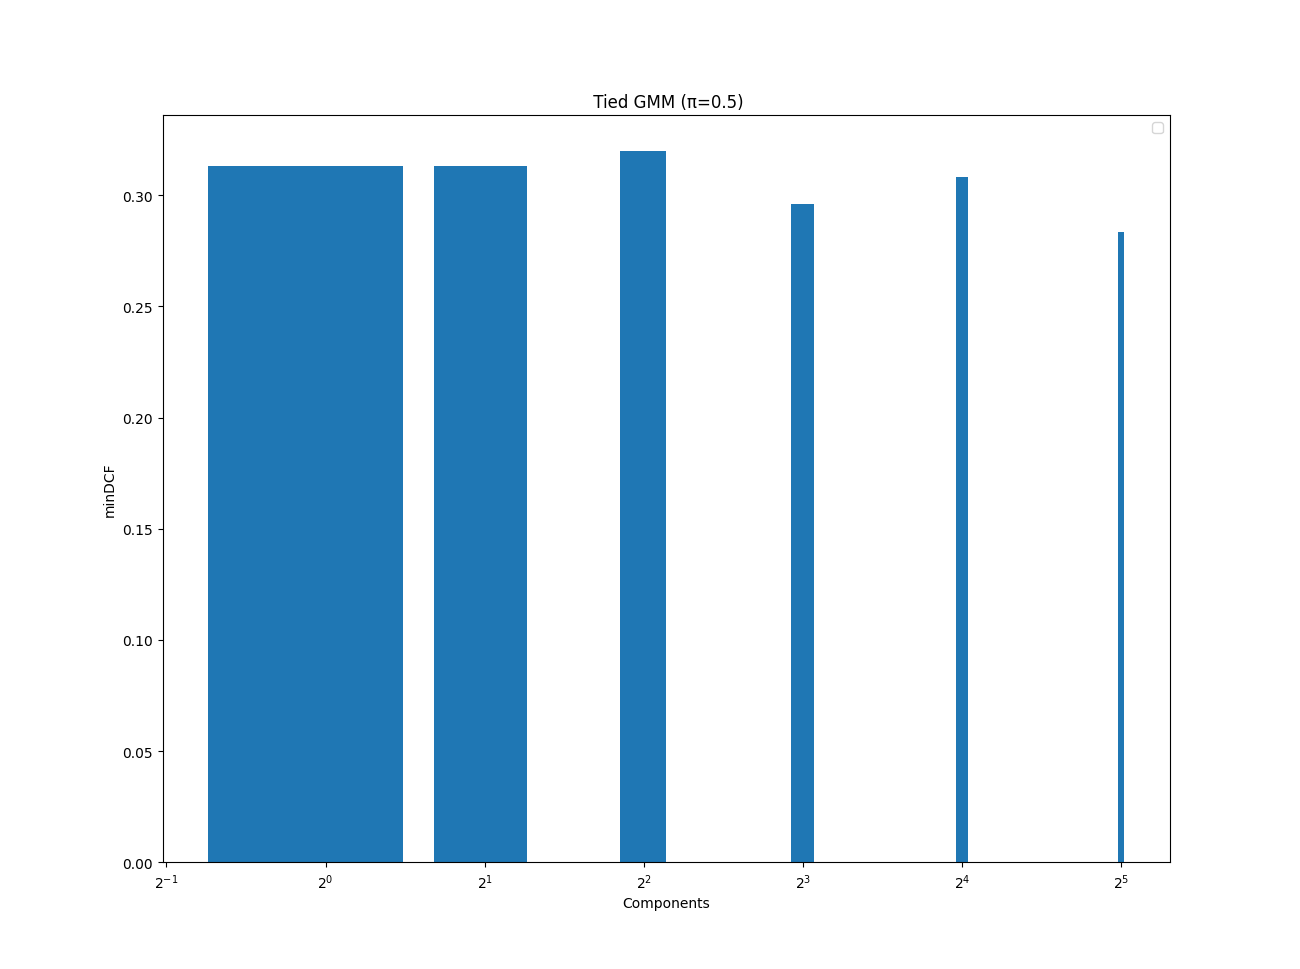
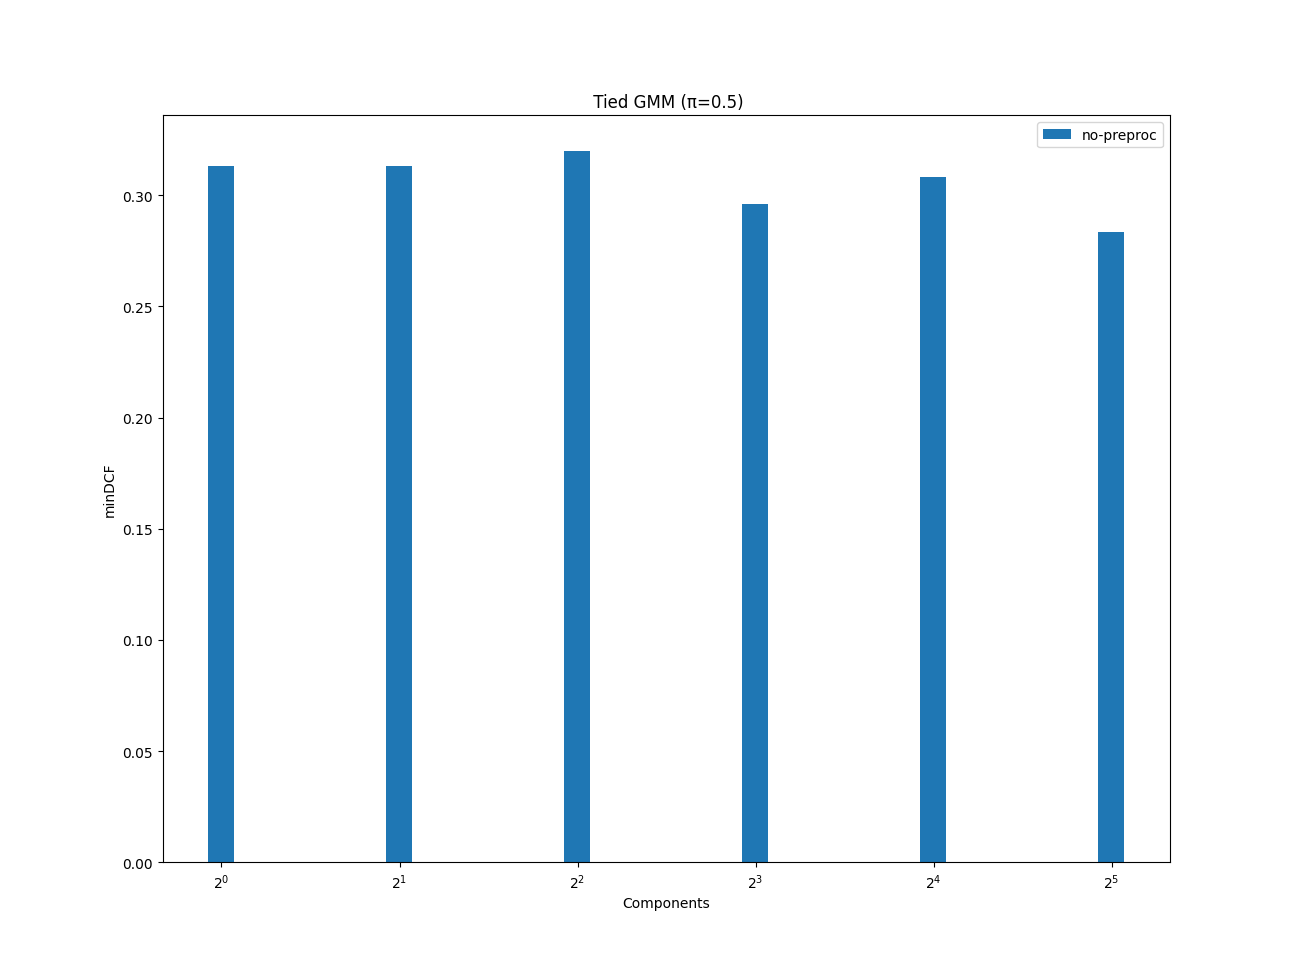
gmm classifier updated

diff --git a/wine_project/scripts/gmm_classifier.py b/wine_project/scripts/gmm_classifier.py
@@ -60,28 +60,28 @@ if __name__ == "__main__":
 
     def gmm_gridsearch():
         # Preprocessing configurations to try
-        # preproc_configurations = [
-        #     PreprocessConf([]),
-        #     PreprocessConf([PreprocStage(Preproc.Gaussianization)]),
-        #     PreprocessConf([
-        #         PreprocStage(Preproc.Centering),
-        #         PreprocStage(Preproc.Whitening_Covariance),
-        #         PreprocStage(Preproc.L2_Normalization)
-        #     ]),
-        #     PreprocessConf([
-        #         PreprocStage(Preproc.Centering),
-        #         PreprocStage(Preproc.Whitening_Within_Covariance),
-        #         PreprocStage(Preproc.L2_Normalization)
-        #     ]),
-        # ]
         preproc_configurations = [
-            PreprocessConf([])
+            PreprocessConf([]),
+            PreprocessConf([PreprocStage(Preproc.Gaussianization)]),
+            PreprocessConf([
+                PreprocStage(Preproc.Centering),
+                PreprocStage(Preproc.Whitening_Covariance),
+                PreprocStage(Preproc.L2_Normalization)
+            ]),
+            PreprocessConf([
+                PreprocStage(Preproc.Centering),
+                PreprocStage(Preproc.Whitening_Within_Covariance),
+                PreprocStage(Preproc.L2_Normalization)
+            ]),
         ]
+        # preproc_configurations = [
+        #     PreprocessConf([])
+        # ]
 
         # Grid hyperparameters
         diags = [False, True]
         tieds = [False, True]
-        max_comps = 32
+        max_comps = 256
         logcomps = int(np.log2(max_comps))
         comps = np.logspace(0, logcomps, logcomps+1, base=2)
 
@@ -114,6 +114,7 @@ if __name__ == "__main__":
         print("Grid search on GMM without ended in %d seconds" % (tot_time_end - tot_time_start))
         np.save("temp.npy", minDCFs)
         # Plot
+        #minDCFs = np.load("temp.npy")
         for app_i, (pi1, Cfn, Cfp) in enumerate(applications):
             for d_i, diag in enumerate(diags):
                 for t_i, tied in enumerate(tieds):
@@ -124,10 +125,13 @@ if __name__ == "__main__":
                     plt.title(title)
                     plt.xlabel("Components")
                     plt.ylabel("minDCF")
-                    plt.xscale('log', basex=2)
+                    plt.xscale('log', base=2)
                     for conf_i, conf in enumerate(preproc_configurations):
                         y = minDCFs[conf_i, d_i, t_i, :, app_i]
-                        plt.bar(comps, y, label="{}".format(conf.to_compact_string()))
+                        width = [0.1 * c for c in comps]
+                        x = [c + (conf_i * 0.2 * c) for c in comps]
+                        label = conf.to_compact_string() if conf.to_compact_string() != "" else "no-preproc"
+                        plt.bar(x, y, label=label, width=width)
                     plt.legend()
                     pi1_without_points = ("%.1f" % pi1).replace(".", "")
                     pi1_str = "pi1-%s" % pi1_without_points
